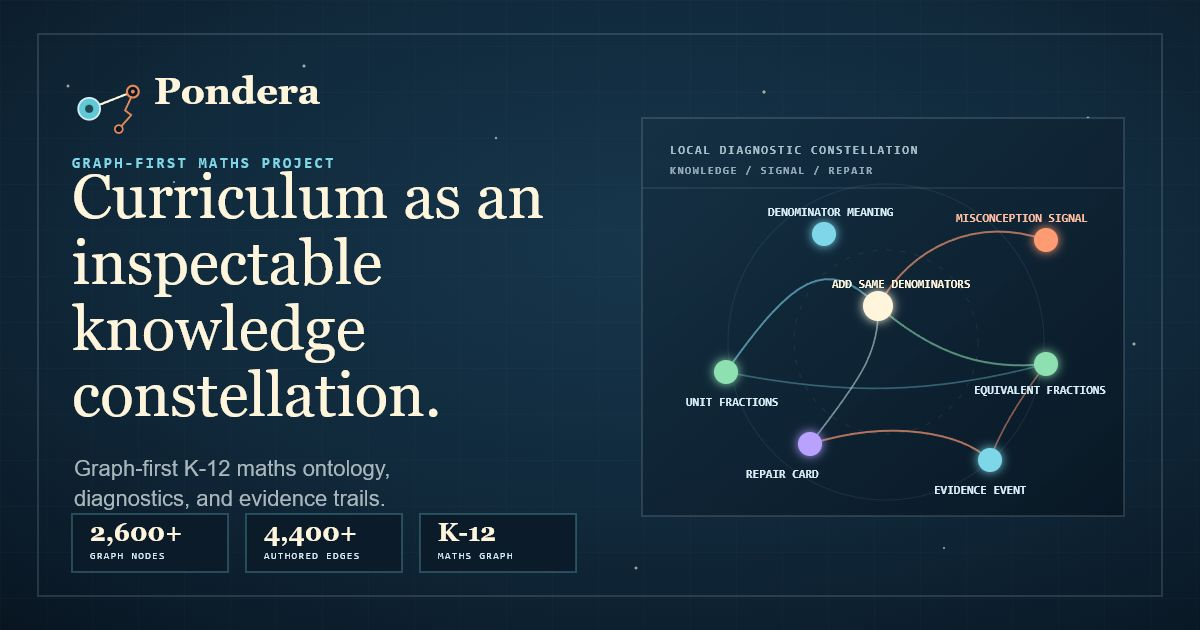
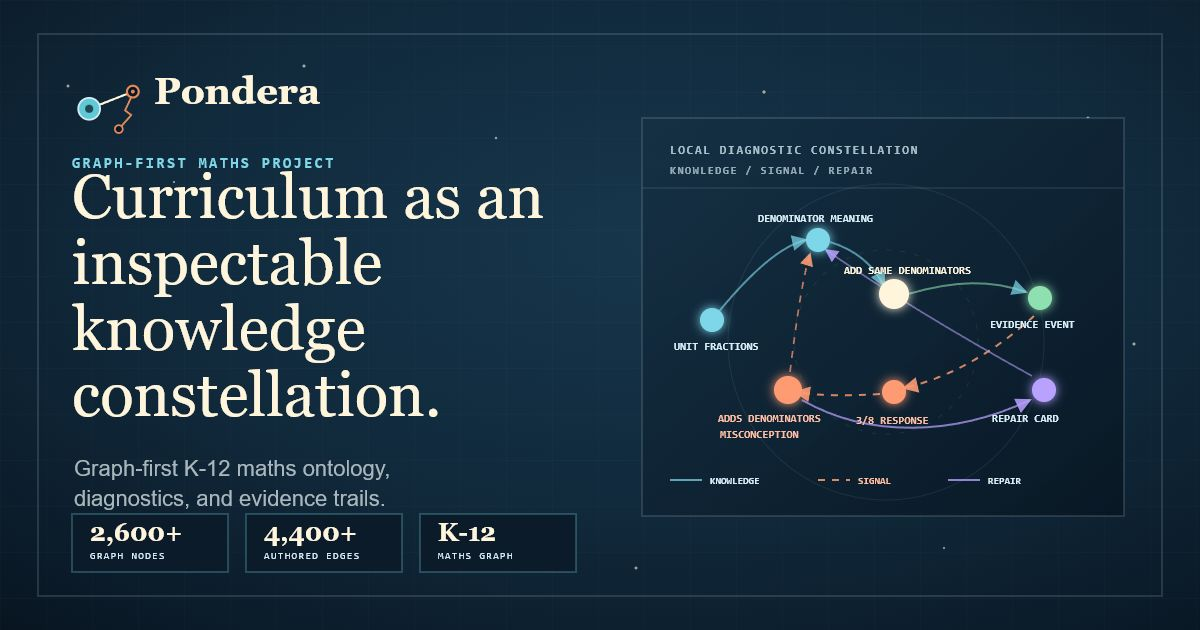
Clarify Pondera diagnostic graph visuals

diff --git a/index.html b/index.html
@@ -724,27 +724,53 @@
             </div>
           </div>
         </div>
-        <div class="repair-graph" aria-label="Graph showing likely broken denominator-meaning node">
-          <svg viewBox="0 0 980 360" role="img" aria-labelledby="repair-title">
-            <title id="repair-title">A local fraction graph where the denominator meaning node is highlighted as the repair target.</title>
-            <path class="edge-line" d="M120 182 C220 100 324 104 430 158"/>
-            <path class="edge-line" d="M430 158 C548 96 664 96 790 148"/>
-            <path class="edge-line" d="M430 158 C552 212 660 230 820 246"/>
-            <path class="edge-line broken-edge" d="M262 268 C344 232 386 206 430 158"/>
-            <path class="edge-line" d="M262 268 C438 304 608 304 820 246"/>
+        <div class="repair-graph" aria-label="Typed graph showing a fraction misconception signal and repair path">
+          <svg viewBox="0 0 980 390" role="img" aria-labelledby="repair-title">
+            <title id="repair-title">A local fraction graph where a wrong answer produces a misconception signal and routes to a denominator-meaning repair card.</title>
+            <defs>
+              <marker id="arrow-blue" markerWidth="8" markerHeight="8" refX="7" refY="4" orient="auto">
+                <path d="M0,0 L8,4 L0,8 Z" fill="#7dd7e8" opacity="0.72"/>
+              </marker>
+              <marker id="arrow-coral" markerWidth="8" markerHeight="8" refX="7" refY="4" orient="auto">
+                <path d="M0,0 L8,4 L0,8 Z" fill="#ff9b73" opacity="0.9"/>
+              </marker>
+              <marker id="arrow-violet" markerWidth="8" markerHeight="8" refX="7" refY="4" orient="auto">
+                <path d="M0,0 L8,4 L0,8 Z" fill="#b9a1ff" opacity="0.86"/>
+              </marker>
+            </defs>
+            <path d="M120 176 C182 118 226 104 286 118" fill="none" stroke="#7dd7e8" stroke-width="1.8" stroke-opacity="0.62" marker-end="url(#arrow-blue)"/>
+            <path d="M324 120 C388 120 430 136 484 166" fill="none" stroke="#7dd7e8" stroke-width="1.8" stroke-opacity="0.62" marker-end="url(#arrow-blue)"/>
+            <path d="M532 172 C610 154 660 150 728 164" fill="none" stroke="#8ee0b0" stroke-width="1.8" stroke-opacity="0.55" marker-end="url(#arrow-blue)"/>
+            <path d="M738 194 C678 246 618 272 536 274" fill="none" stroke="#ff9b73" stroke-width="1.8" stroke-opacity="0.8" stroke-dasharray="8 8" marker-end="url(#arrow-coral)"/>
+            <path d="M482 278 C420 280 372 278 324 272" fill="none" stroke="#ff9b73" stroke-width="1.8" stroke-opacity="0.82" stroke-dasharray="8 8" marker-end="url(#arrow-coral)"/>
+            <path d="M318 252 C316 208 316 170 314 138" fill="none" stroke="#ff9b73" stroke-width="1.6" stroke-opacity="0.72" stroke-dasharray="8 8" marker-end="url(#arrow-coral)"/>
+            <path d="M336 276 C456 326 608 324 742 282" fill="none" stroke="#b9a1ff" stroke-width="1.8" stroke-opacity="0.72" marker-end="url(#arrow-violet)"/>
+            <path d="M760 254 C626 206 466 176 330 132" fill="none" stroke="#b9a1ff" stroke-width="1.6" stroke-opacity="0.58" marker-end="url(#arrow-violet)"/>
             <g class="star-node">
-              <circle cx="120" cy="182" r="12" fill="#7dd7e8"/>
-              <circle cx="262" cy="268" r="15" fill="#ff9b73"/>
-              <circle cx="430" cy="158" r="16" fill="#fff5dc"/>
-              <circle cx="790" cy="148" r="12" fill="#8ee0b0"/>
-              <circle cx="820" cy="246" r="12" fill="#b9a1ff"/>
+              <circle cx="110" cy="182" r="12" fill="#7dd7e8"/>
+              <circle cx="306" cy="118" r="13" fill="#7dd7e8"/>
+              <circle cx="510" cy="172" r="16" fill="#fff5dc"/>
+              <circle cx="762" cy="172" r="12" fill="#8ee0b0"/>
+              <circle cx="510" cy="274" r="12" fill="#ff9b73"/>
+              <circle cx="306" cy="270" r="15" fill="#ff9b73"/>
+              <circle cx="770" cy="270" r="12" fill="#b9a1ff"/>
             </g>
-            <text class="graph-label" x="78" y="216">Unit fractions</text>
-            <text class="graph-label hot" x="180" y="304">Denominator meaning</text>
-            <text class="graph-label" x="374" y="132">Add same denominators</text>
-            <text class="graph-label" x="734" y="124">Equivalent fractions</text>
-            <text class="graph-label" x="748" y="282">Visual repair card</text>
-            <text class="graph-label hot" x="318" y="228">likely broken edge</text>
+            <text class="graph-label" x="58" y="214">Unit fractions</text>
+            <text class="graph-label" x="238" y="92">Denominator meaning</text>
+            <text class="graph-label" x="440" y="148">Add same denominators</text>
+            <text class="graph-label" x="694" y="148">Evidence event</text>
+            <text class="graph-label hot" x="452" y="310">3/8 response</text>
+            <text class="graph-label hot" x="194" y="306">Adds denominators</text>
+            <text class="graph-label hot" x="218" y="324">misconception</text>
+            <text class="graph-label" x="704" y="306">Fraction-bar repair</text>
+            <g>
+              <line x1="58" y1="350" x2="104" y2="350" stroke="#7dd7e8" stroke-width="1.8" stroke-opacity="0.72"/>
+              <text class="graph-label" x="116" y="354">requires / targets knowledge</text>
+              <line x1="360" y1="350" x2="406" y2="350" stroke="#ff9b73" stroke-width="1.8" stroke-dasharray="8 8" stroke-opacity="0.85"/>
+              <text class="graph-label hot" x="418" y="354">diagnostic signal</text>
+              <line x1="618" y1="350" x2="664" y2="350" stroke="#b9a1ff" stroke-width="1.8" stroke-opacity="0.78"/>
+              <text class="graph-label" x="676" y="354">remediation path</text>
+            </g>
           </svg>
         </div>
       </div>